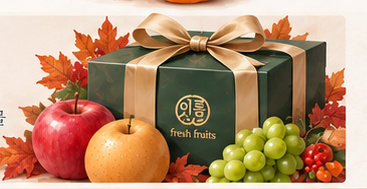
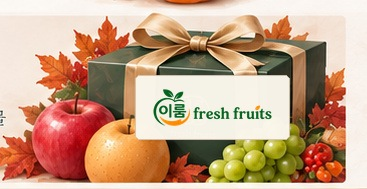
Add files via upload

diff --git a/public/iroom_assets/iroom-v8.js b/public/iroom_assets/iroom-v8.js
@@ -16,10 +16,16 @@
   };
   let publicSite={...PUBLIC_DEFAULT};
   const seasons={
-    spring:{label:'봄',art:'hero_clean/spring.jpg',curation:'card_art/spring_curation.jpg',gift:'card_art/spring_gift.jpg',premium:'card_art/spring_premium.jpg',premiumFruits:['금실딸기','성주참외','대저토마토','샤인머스캣'],seasonalFruits:['딸기','참외','토마토','청포도'],library:['블루베리','파인애플','망고','자몽','체리','멜론']},
-    summer:{label:'여름',art:'hero_clean/summer.jpg',curation:'card_art/summer_curation.jpg',gift:'card_art/summer_gift.jpg',premium:'card_art/summer_premium.jpg',premiumFruits:['백도복숭아','고당도수박','샤인머스캣','머스크멜론'],seasonalFruits:['수박','복숭아','자두','포도'],library:['파인애플','키위','블루베리','청포도','자몽','체리']},
-    autumn:{label:'가을',art:'hero_clean/autumn.jpg',curation:'card_art/autumn_curation.jpg',gift:'card_art/autumn_gift.jpg',premium:'card_art/autumn_premium.jpg',premiumFruits:['홍로사과','나주배','샤인머스캣','대봉'],seasonalFruits:['사과','배','감','대봉'],library:['석류','포도','블랙베리','자몽','샤인머스캣','사과']},
-    winter:{label:'겨울',art:'hero_clean/winter.jpg',curation:'card_art/winter_curation.jpg',gift:'card_art/winter_gift.jpg',premium:'card_art/winter_premium.jpg',premiumFruits:['제주감귤','한라봉','금실딸기','부사사과'],seasonalFruits:['제주감귤','한라봉','딸기','사과'],library:['키위','금귤','배','블루베리','자몽','오렌지']}
+    spring:{label:'봄',art:'hero_soft/spring.jpg',curation:'card_art/spring_curation.jpg',gift:'card_art/spring_gift.jpg',premium:'card_art/spring_premium.jpg',premiumFruits:['금실딸기','성주참외','대저토마토','샤인머스캣'],seasonalFruits:['딸기','참외','토마토','청포도'],library:['블루베리','파인애플','망고','자몽','체리','멜론']},
+    summer:{label:'여름',art:'hero_soft/summer.jpg',curation:'card_art/summer_curation.jpg',gift:'card_art/summer_gift.jpg',premium:'card_art/summer_premium.jpg',premiumFruits:['백도복숭아','고당도수박','샤인머스캣','머스크멜론'],seasonalFruits:['수박','복숭아','자두','포도'],library:['파인애플','키위','블루베리','청포도','자몽','체리']},
+    autumn:{label:'가을',art:'hero_soft/autumn.jpg',curation:'card_art/autumn_curation.jpg',gift:'card_art/autumn_gift.jpg',premium:'card_art/autumn_premium.jpg',premiumFruits:['홍로사과','나주배','샤인머스캣','대봉'],seasonalFruits:['사과','배','감','대봉'],library:['석류','포도','블랙베리','자몽','샤인머스캣','사과']},
+    winter:{label:'겨울',art:'hero_soft/winter.jpg',curation:'card_art/winter_curation.jpg',gift:'card_art/winter_gift.jpg',premium:'card_art/winter_premium.jpg',premiumFruits:['제주감귤','한라봉','금실딸기','부사사과'],seasonalFruits:['제주감귤','한라봉','딸기','사과'],library:['키위','금귤','배','블루베리','자몽','오렌지']}
+  };
+  const heroCopy={
+    spring:{title:'봄 제철 과일',desc:'봄의 싱그러움을<br>가장 특별한 선물로',tag:'PREMIUM FRESH FRUITS · IN SPRING'},
+    summer:{title:'여름의 과일',desc:'햇살이 더 달콤하게<br>만드는 계절의 선물',tag:'PREMIUM FRESH FRUITS · IN SUMMER'},
+    autumn:{title:'가을 프리미엄 과일',desc:'깊어가는 계절이 전하는<br>가장 특별한 선물',tag:'PREMIUM FRESH FRUITS · IN AUTUMN'},
+    winter:{title:'겨울 프리미엄 과일',desc:'차가운 계절에 더욱 빛나는<br>자연의 달콤한 선물',tag:'PREMIUM FRESH FRUITS · IN WINTER'}
   };
   const fruitMeta={
     '딸기':['fruits/01_딸기_strawberry.png','향긋하고 산뜻한 단맛'],
@@ -131,6 +137,11 @@
   function applySeason(key){
     current=key; visual.classList.add('is-changing');
     const data=seasons[key]; artwork.alt=`이룸 ${data.label} 계절 메인 시안`;
+    const hc=heroCopy[key]||heroCopy.autumn;
+    const ht=$('#heroSeasonTitle'),hd=$('#heroSeasonDesc'),hg=$('#heroSeasonTag');
+    if(ht)ht.textContent=hc.title;
+    if(hd)hd.innerHTML=hc.desc;
+    if(hg)hg.textContent=hc.tag;
     updateSeasonControls();
     const preload=new Image();
     preload.onload=()=>{artwork.src=preload.src; requestAnimationFrame(()=>visual.classList.remove('is-changing'))};
@@ -227,20 +238,44 @@
       </div>`);
   }
   let deferredInstallPrompt=null;
-  window.addEventListener('beforeinstallprompt',e=>{e.preventDefault();deferredInstallPrompt=e;});
+  const installStatus=()=>document.querySelector('[data-install-status]');
   const isIOS=()=>/iphone|ipad|ipod/i.test(navigator.userAgent);
+  const isStandalone=()=>window.matchMedia?.('(display-mode: standalone)').matches || navigator.standalone===true;
+  const isSecureInstallContext=()=>window.isSecureContext && (location.protocol==='https:' || ['localhost','127.0.0.1'].includes(location.hostname));
+  function setInstallStatus(text){const el=installStatus();if(el)el.textContent=text}
+  window.addEventListener('beforeinstallprompt',e=>{
+    e.preventDefault();
+    deferredInstallPrompt=e;
+    setInstallStatus('설치 준비 완료 · 눌러서 앱처럼 설치');
+  });
+  window.addEventListener('appinstalled',()=>{
+    deferredInstallPrompt=null;
+    setInstallStatus('설치 완료 · 홈 화면이나 바탕화면에서 실행');
+  });
   function renderInstall(){
-    const ios=isIOS();
-    setModal('INSTALL','이룸을 더 빠르게 여는 방법','앱스토어에서 별도 앱을 찾지 않아도, 이 홈페이지를 앱처럼 설치해 사용할 수 있습니다.',`
+    const ios=isIOS(), standalone=isStandalone(), secure=isSecureInstallContext();
+    const localFile=location.protocol==='file:';
+    const state=standalone?'이미 앱 모드로 실행 중입니다.':localFile?'현재 파일을 직접 열어본 상태라 설치 기능을 사용할 수 없습니다.':secure?'설치 가능한 보안 환경에서 열려 있습니다.':'앱 설치는 HTTPS 주소 또는 localhost에서 사용할 수 있습니다.';
+    setModal('INSTALL','이룸을 앱처럼 설치하기',state,`
       <div class="install-note">
-        <div class="install-step"><b>Android · Chrome</b>아래 설치 버튼이 지원되면 바로 설치됩니다. 지원되지 않으면 브라우저 메뉴의 ‘앱 설치’ 또는 ‘홈 화면에 추가’를 이용하세요.</div>
-        <div class="install-step"><b>iPhone · Safari</b>Safari의 공유 버튼을 누른 뒤 ‘홈 화면에 추가’를 선택하세요. iPhone은 웹페이지가 임의로 설치창을 강제로 띄울 수 없습니다.</div>
-        <div class="install-step"><b>Windows · Mac</b>Chrome/Edge 주소창의 설치 아이콘 또는 브라우저 메뉴의 ‘앱 설치’를 이용하면 바탕화면/시작 메뉴에서 바로 열 수 있습니다.</div>
+        <div class="install-step"><b>Android · Chrome / Samsung Internet</b>이 페이지를 HTTPS로 연 뒤 ‘앱 설치’ 버튼을 누르세요. 설치 제안이 아직 준비되지 않았다면 브라우저 메뉴의 ‘홈 화면에 추가’ 또는 ‘앱 설치’를 이용할 수 있습니다.</div>
+        <div class="install-step"><b>iPhone · Safari</b>Safari 하단의 공유 버튼 → ‘홈 화면에 추가’ → ‘추가’를 선택하세요. iOS는 웹사이트가 설치창을 자동으로 띄우는 방식을 지원하지 않습니다.</div>
+        <div class="install-step"><b>Windows · Mac</b>Chrome 또는 Edge에서 HTTPS 주소를 열고 주소창의 설치 아이콘을 누르면 시작 메뉴·Dock·바탕화면에서 앱처럼 사용할 수 있습니다.</div>
+        ${localFile?'<div class="install-step install-warning"><b>지금 확인하는 방법</b>압축파일의 <code>ROOT_루트에_업로드/START_앱설치_미리보기.bat</code>를 실행하면 localhost로 열려 설치 기능을 확인할 수 있습니다.</div>':''}
       </div>
-      <div class="modal-actions"><button class="primary-btn" type="button" data-install-now>${ios?'설치 방법 확인':'지원되면 지금 설치'}</button><button class="secondary-btn" type="button" data-copy-home>홈페이지 주소 복사</button></div>`);
+      <div class="modal-actions"><button class="primary-btn" type="button" data-install-now>${standalone?'이미 설치됨':ios?'iPhone 설치 방법 확인':'지원되면 지금 설치'}</button><button class="secondary-btn" type="button" data-copy-home>홈페이지 주소 복사</button></div>`);
   }
   async function installApp(){
-    if(deferredInstallPrompt){deferredInstallPrompt.prompt();const r=await deferredInstallPrompt.userChoice.catch(()=>null);deferredInstallPrompt=null;return r}
+    if(isStandalone()){alert('이미 앱처럼 설치되어 실행 중입니다.');return}
+    if(deferredInstallPrompt){
+      try{
+        deferredInstallPrompt.prompt();
+        const r=await deferredInstallPrompt.userChoice;
+        if(r?.outcome==='accepted')setInstallStatus('설치 진행 중');
+      }catch(e){}
+      deferredInstallPrompt=null;
+      return;
+    }
     openModal('install');
   }
   async function ensureKakaoSdk(){
@@ -308,7 +343,18 @@
     try{await navigator.clipboard.writeText(location.href);alert('홈페이지 주소를 복사했습니다.')}catch(e){prompt('아래 주소를 복사해 주세요.',location.href)}
   }
   loadPublicConfig();
-  if('serviceWorker' in navigator && location.protocol.startsWith('http'))window.addEventListener('load',()=>navigator.serviceWorker.register('/sw.js').catch(()=>{}));
+  if('serviceWorker' in navigator && (location.protocol==='https:' || location.hostname==='localhost' || location.hostname==='127.0.0.1')){
+    window.addEventListener('load',async()=>{
+      try{
+        await navigator.serviceWorker.register('./sw.js',{scope:'./'});
+        await navigator.serviceWorker.ready;
+        if(isStandalone())setInstallStatus('설치 완료 · 앱 모드로 실행 중');
+        else if(!deferredInstallPrompt)setInstallStatus('설치 기능 준비 중 · 브라우저 메뉴에서도 설치 가능');
+      }catch(e){setInstallStatus('설치 설정을 확인해 주세요')}
+    });
+  }else if(location.protocol==='file:'){
+    setInstallStatus('미리보기 파일 · 설치 확인은 localhost에서 가능');
+  }
   if(new URLSearchParams(location.search).get('kakao')==='success')setTimeout(()=>{history.replaceState({},'',location.pathname);openModal('mypage')},180);
 
   root.addEventListener('click',e=>{

diff --git a/public/iroom_assets/iroom-v8.css b/public/iroom_assets/iroom-v8.css
@@ -265,3 +265,63 @@ body{background:var(--season-wash-2,#fffaf4)}
 .iroom-assurance-copy{display:block;min-width:0}.iroom-assurance-copy small{display:block;font:10px Georgia,serif;letter-spacing:.18em;color:var(--season-accent,#9b503e);margin-bottom:7px}.iroom-assurance-copy strong{display:block;font-family:"Noto Serif KR","Batang",Georgia,serif;font-size:22px;font-weight:600;letter-spacing:-.035em;color:var(--ink);margin-bottom:5px}.iroom-assurance-copy em{display:block;font-style:normal;color:#776e65;font-family:"Noto Serif KR","Batang",serif;font-size:13px;line-height:1.7}.iroom-assurance-points{display:flex;align-items:center;justify-content:flex-end;gap:9px;white-space:nowrap;color:#6f766e;font-size:11px}.iroom-assurance-points b{font-weight:600;color:#31594f}.iroom-assurance-points i{font-style:normal;color:#b9a99a}
 @media(max-width:900px){.iroom-assurance{grid-template-columns:auto 1fr}.iroom-assurance-points{grid-column:2;justify-content:flex-start;white-space:normal;flex-wrap:wrap}}
 @media(max-width:600px){.iroom-assurance{padding:20px;border-radius:20px;grid-template-columns:1fr;gap:12px}.iroom-assurance-mark{width:42px;height:42px}.iroom-assurance-points{grid-column:auto}.iroom-assurance-copy strong{font-size:20px}}
+
+
+/* IROOM4 V10 — soft seasonal hero + unambiguous Korean brand copy */
+.season-visual>img{
+  filter:saturate(.94) contrast(.97) brightness(1.012);
+}
+.season-visual:after{
+  content:"";position:absolute;inset:0;pointer-events:none;z-index:1;
+  background:
+    linear-gradient(180deg,rgba(255,255,255,.035),rgba(255,250,242,.055)),
+    radial-gradient(circle at 52% 44%,rgba(255,255,255,.08),transparent 48%);
+  mix-blend-mode:screen;
+}
+.season-copy-fix{
+  position:absolute;z-index:3;left:0;top:0;width:28.5%;height:100%;
+  display:flex;flex-direction:column;justify-content:center;align-items:flex-start;
+  padding:6% 2.2% 7% max(3.2%,38px);
+  color:#12362f;
+  background:linear-gradient(90deg,
+    color-mix(in srgb,var(--season-wash-2,#fffaf4) 98%,white 2%) 0%,
+    color-mix(in srgb,var(--season-wash-2,#fffaf4) 95%,white 5%) 67%,
+    color-mix(in srgb,var(--season-wash-2,#fffaf4) 64%,transparent 36%) 84%,
+    transparent 100%);
+  pointer-events:none;
+}
+.season-copy-brand{
+  display:block;font-family:"Batang","Noto Serif KR",Georgia,serif;
+  font-size:clamp(24px,2.15vw,42px);font-weight:600;letter-spacing:-.04em;line-height:1;
+  margin-bottom:12px;color:#0f342d;
+}
+.season-copy-fix strong{
+  display:block;font-family:"Batang","Noto Serif KR",Georgia,serif;
+  font-size:clamp(26px,2.5vw,49px);font-weight:600;letter-spacing:-.055em;line-height:1.18;
+  max-width:420px;color:#0f342d;
+}
+.season-copy-fix>i{
+  width:30px;height:1px;background:#23443d;margin:22px 0 20px;opacity:.82;
+}
+.season-copy-fix p{
+  margin:0;font-family:"Batang","Noto Serif KR",Georgia,serif;
+  font-size:clamp(13px,1.16vw,20px);line-height:1.62;color:#50655f;letter-spacing:-.025em;
+}
+.season-copy-fix small{
+  display:block;margin-top:34px;font:10px/1.65 Georgia,serif;letter-spacing:.21em;
+  color:#526660;max-width:245px;
+}
+.install-warning{background:var(--season-wash,#fbf1e6)!important;border-color:var(--season-line,#ead5c2)!important}
+.install-warning code{font-family:Consolas,monospace;font-size:11px;word-break:break-all}
+@media(max-width:900px){
+  .season-copy-fix{width:36%;padding-left:22px}
+  .season-copy-fix small{margin-top:18px;font-size:8.5px}
+  .season-copy-fix>i{margin:14px 0}
+}
+@media(max-width:620px){
+  .season-copy-fix{width:44%;padding-left:14px;padding-right:6px;background:linear-gradient(90deg,var(--season-wash-2,#fffaf4) 0%,rgba(255,250,244,.94) 72%,transparent 100%)}
+  .season-copy-brand{font-size:20px;margin-bottom:7px}
+  .season-copy-fix strong{font-size:23px;line-height:1.2}
+  .season-copy-fix p{font-size:11px;line-height:1.5}
+  .season-copy-fix small{display:none}
+}

diff --git a/public/sw.js b/public/sw.js
@@ -1,5 +1,46 @@
-const CACHE="iroom4-v3-static-1";
-const CORE=["/","/index.html","/iroom_assets/iroom-v8.css","/iroom_assets/iroom-v8.js","/iroom_assets/iroom-logo-final.png"];
-self.addEventListener("install",e=>e.waitUntil(caches.open(CACHE).then(c=>c.addAll(CORE)).catch(()=>{})));
-self.addEventListener("activate",e=>e.waitUntil(caches.keys().then(keys=>Promise.all(keys.filter(k=>k!==CACHE).map(k=>caches.delete(k))))));
-self.addEventListener("fetch",e=>{const u=new URL(e.request.url);if(e.request.method!=="GET"||u.pathname.startsWith("/api/"))return;e.respondWith(fetch(e.request).then(r=>{const copy=r.clone();caches.open(CACHE).then(c=>c.put(e.request,copy)).catch(()=>{});return r}).catch(()=>caches.match(e.request)));});
+const CACHE="iroom4-v10-static-1";
+const CORE=[
+  "./",
+  "./index.html",
+  "./manifest.webmanifest",
+  "./iroom_assets/iroom-v8.css",
+  "./iroom_assets/iroom-v8.js",
+  "./iroom_assets/iroom-logo-final.png",
+  "./iroom_assets/app-icon-192.png",
+  "./iroom_assets/app-icon-512.png"
+];
+self.addEventListener("install",event=>{
+  self.skipWaiting();
+  event.waitUntil(caches.open(CACHE).then(cache=>cache.addAll(CORE)).catch(()=>{}));
+});
+self.addEventListener("activate",event=>{
+  event.waitUntil(Promise.all([
+    caches.keys().then(keys=>Promise.all(keys.filter(k=>k!==CACHE).map(k=>caches.delete(k)))),
+    self.clients.claim()
+  ]));
+});
+self.addEventListener("fetch",event=>{
+  const req=event.request;
+  if(req.method!=="GET")return;
+  const url=new URL(req.url);
+  if(url.origin!==self.location.origin || url.pathname.includes("/api/"))return;
+  if(req.mode==="navigate"){
+    event.respondWith(
+      fetch(req).then(res=>{
+        const copy=res.clone();
+        caches.open(CACHE).then(c=>c.put("./index.html",copy)).catch(()=>{});
+        return res;
+      }).catch(()=>caches.match("./index.html"))
+    );
+    return;
+  }
+  event.respondWith(
+    caches.match(req).then(hit=>hit||fetch(req).then(res=>{
+      if(res && res.ok){
+        const copy=res.clone();
+        caches.open(CACHE).then(c=>c.put(req,copy)).catch(()=>{});
+      }
+      return res;
+    }))
+  );
+});

diff --git a/public/index.html b/public/index.html
@@ -46,6 +46,13 @@
     <section class="season-stage" aria-label="계절별 이룸 메인 디자인">
       <div class="season-visual" id="seasonVisual">
         <img id="seasonArtwork" src="" alt="이룸 계절별 프리미엄 과일 메인 시안">
+        <div class="season-copy-fix" aria-label="계절 메인 소개">
+          <span class="season-copy-brand">이룸</span>
+          <strong id="heroSeasonTitle">가을 프리미엄 과일</strong>
+          <i aria-hidden="true"></i>
+          <p id="heroSeasonDesc">깊어가는 계절이 전하는<br>가장 특별한 선물</p>
+          <small id="heroSeasonTag">PREMIUM FRESH FRUITS · IN AUTUMN</small>
+        </div>
       </div>
     </section>
 
@@ -213,7 +220,7 @@
         <span>KAKAO</span><strong>카카오 로그인</strong><small>카카오로 빠르게 로그인하고 이룸 회원과 연결</small>
       </button>
       <button class="footer-action" type="button" data-install-app>
-        <span>INSTALL</span><strong>앱 · 바로가기 설치</strong><small>휴대폰 홈 화면과 PC 바탕화면에서 빠르게 열기</small>
+        <span>INSTALL</span><strong>앱 · 바로가기 설치</strong><small data-install-status>휴대폰 홈 화면과 PC에서 앱처럼 빠르게 열기</small>
       </button>
       <button class="footer-action" type="button" data-social="share">
         <span>SHARE</span><strong>공유하기</strong><small>이룸 fresh fruits를 지인에게 알려주세요</small>
